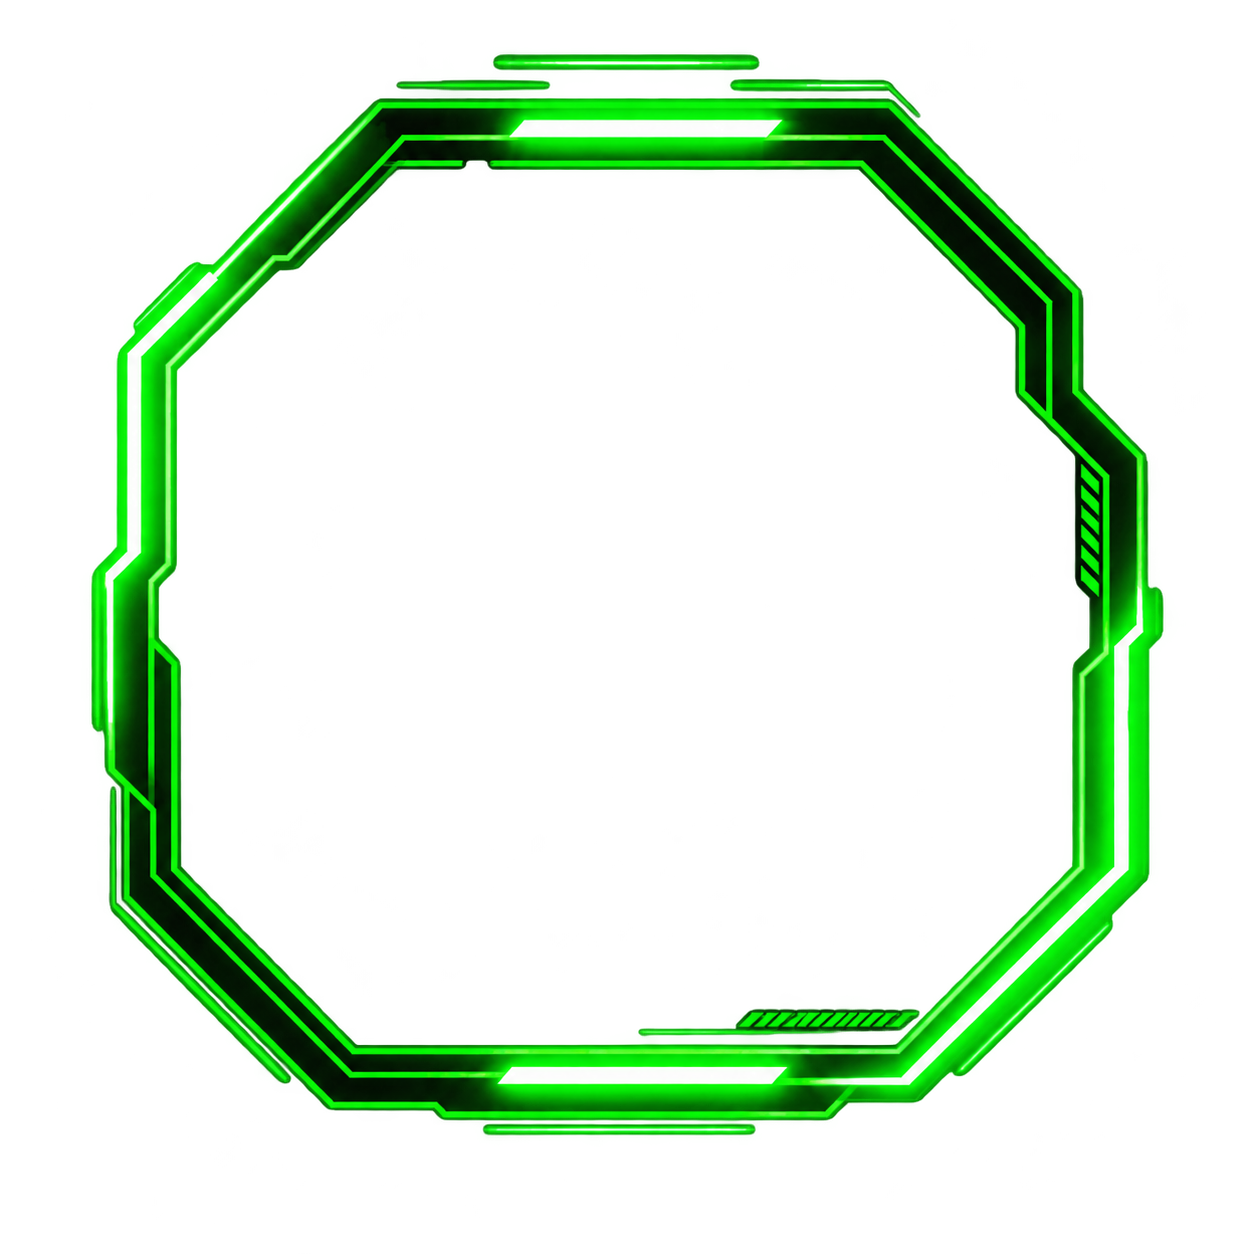
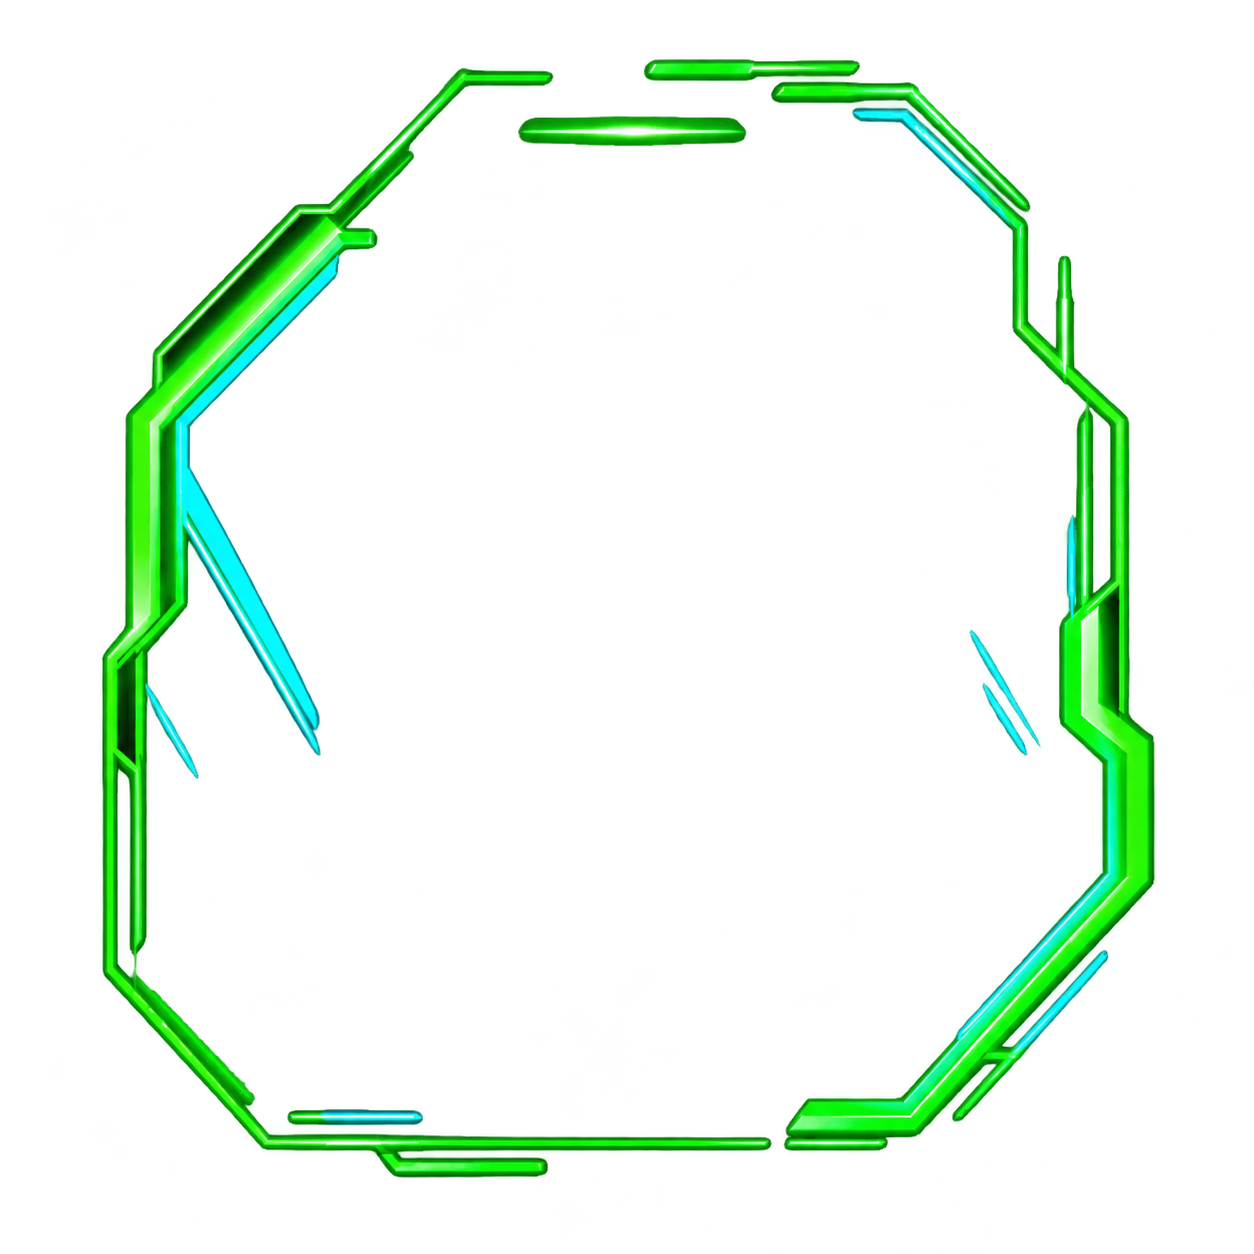
Troca a borda da foto pela moldura neon enviada

Changed region(s): [[0.0622, 0.0311, 0.933, 0.9641]]

diff --git a/styles.css b/styles.css
@@ -39,9 +39,9 @@ button { color: inherit; font: inherit; }
 main { overflow: hidden; }
 .hero { position: relative; display: grid; grid-template-columns: minmax(250px, .85fr) minmax(0, 1.15fr); align-items: center; gap: clamp(25px, 6vw, 90px); width: min(1160px, calc(100% - 48px)); min-height: 690px; margin: 0 auto; padding: 70px 0 55px; }
 .hero-art { position: absolute; inset: 6% -17% 5% 38%; z-index: -1; background: radial-gradient(ellipse, rgba(13, 86, 43, .3), transparent 64%); }
-.portrait-stage { position: relative; display: grid; place-items: center; min-height: 440px; isolation: isolate; background-image: url('/portifolio/frames/moldura.png'); background-position: center; background-size: contain; background-repeat: no-repeat; }
+.portrait-stage { position: relative; display: grid; place-items: center; min-height: 440px; isolation: isolate; }
 .portrait-glow { position: absolute; width: 72%; aspect-ratio: 1; border-radius: 50%; background: rgba(43, 255, 121, .12); filter: blur(50px); }
-.portrait-frame { display: none; }
+.portrait-frame { position: absolute; z-index: 2; width: min(100%, 460px); height: auto; filter: drop-shadow(0 0 22px rgba(55,255,133,.4)); }
 .portrait { position: relative; z-index: 1; width: min(75%, 340px); max-height: 440px; object-fit: contain; object-position: bottom; filter: drop-shadow(0 16px 30px rgba(0,0,0,.55)); }
 .hero-content { max-width: 650px; }
 .terminal-line { color: #c1d8c7; font: 13px 'JetBrains Mono', monospace; }
